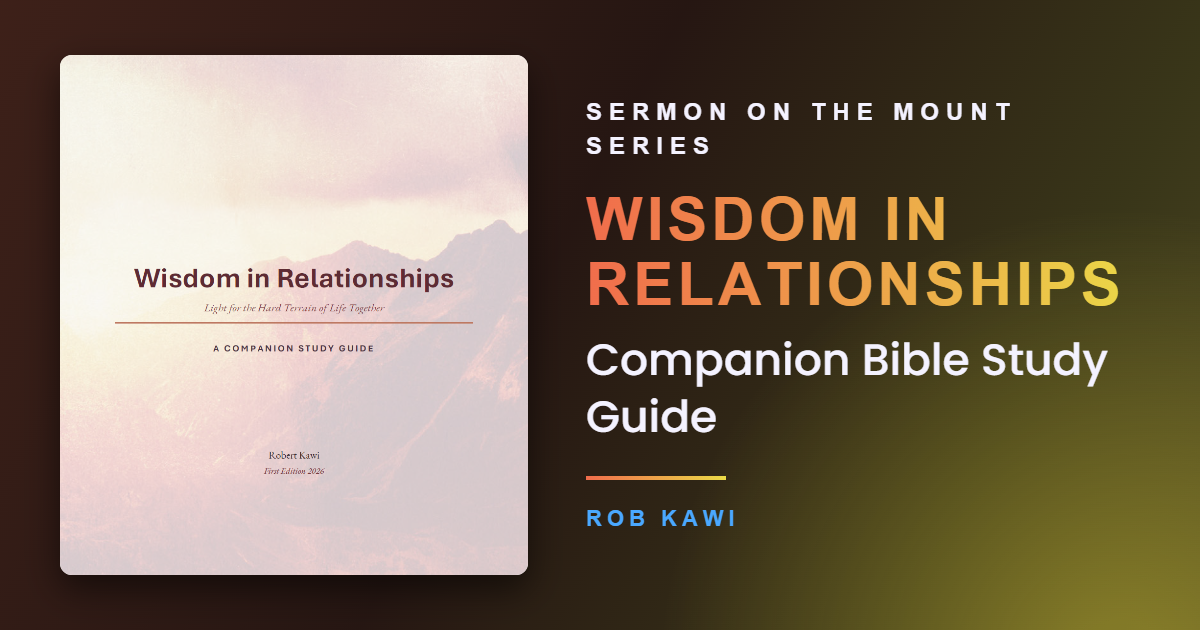
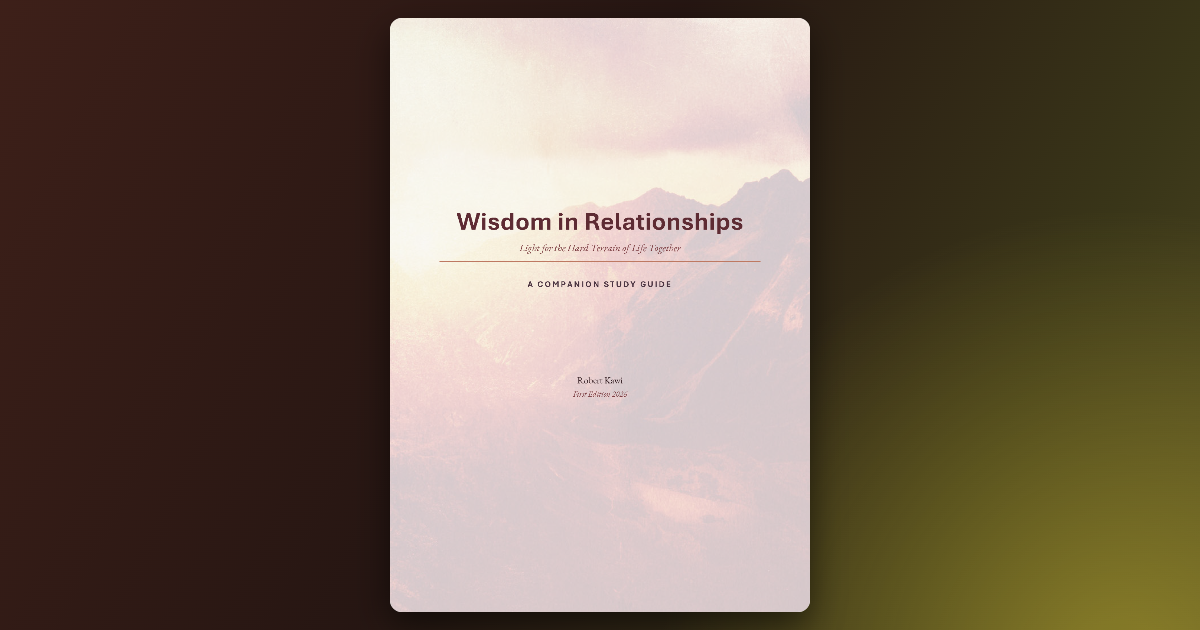
Add files via upload

diff --git a/wisdom-in-relationships-companion-study-guide.html b/wisdom-in-relationships-companion-study-guide.html
@@ -3,29 +3,29 @@
 <head>
 <meta name="viewport" content="width=device-width, initial-scale=1">
 <meta charset="utf-8">
-<title>wisdom in relationships companion study guide</title>
+<title>Wisdom in Relationships - A Companion Study Guide</title>
 <meta name="description" content="">
-<link rel="canonical" href="https://tdmp2026.github.io/wisdom-in-relationships-companion-study-guide.html">
+<link rel="canonical" href="https://tdmp2026.github.io/wisdom-in-relationships-a-companion-study-guide.html">
 <meta property="og:site_name" content="The Disciple-Maker Program">
-<meta property="og:title" content="wisdom in relationships companion study guide">
+<meta property="og:title" content="Wisdom in Relationships - A Companion Study Guide">
 <meta property="og:description" content="">
-<meta property="og:url" content="https://tdmp2026.github.io/wisdom-in-relationships-companion-study-guide.html">
+<meta property="og:url" content="https://tdmp2026.github.io/wisdom-in-relationships-a-companion-study-guide.html">
 <meta property="og:type" content="website">
-<meta property="og:image" content="https://tdmp2026.github.io/wisdom-in-relationships-companion-study-guide-card.png">
+<meta property="og:image" content="https://tdmp2026.github.io/wisdom-in-relationships-a-companion-study-guide-card.png">
 <meta property="og:image:width" content="1200">
 <meta property="og:image:height" content="630">
 <meta name="twitter:card" content="summary_large_image">
-<meta name="twitter:title" content="wisdom in relationships companion study guide">
+<meta name="twitter:title" content="Wisdom in Relationships - A Companion Study Guide">
 <meta name="twitter:description" content="">
-<meta name="twitter:image" content="https://tdmp2026.github.io/wisdom-in-relationships-companion-study-guide-card.png">
+<meta name="twitter:image" content="https://tdmp2026.github.io/wisdom-in-relationships-a-companion-study-guide-card.png">
 <style>body{margin:0;background:linear-gradient(160deg,#0e1d4d 0%,#1c1440 45%,#3a1a5e 80%,#4a1e63 100%);color:#f4f2ff;font-family:Arial,Helvetica,sans-serif;display:flex;min-height:100vh;align-items:center;justify-content:center;text-align:center}.box{width:min(94vw,1000px);padding:18px 8px}h1{font-weight:800;font-size:clamp(1.15rem,1.8vw,1.7rem);text-transform:uppercase;letter-spacing:.13em;color:#ffffff;margin:20px 0 0}p{color:#a9a3d0;font-size:clamp(.9rem,1.2vw,1.15rem);margin:10px 0 0}img.card,video.card{display:block;width:100%;height:auto;max-height:55vh;object-fit:contain;border-radius:12px}.btns{display:flex;flex-wrap:wrap;justify-content:center;gap:16px;max-width:900px;margin:18px auto 0}a.go,a.yt,a.sp,a.fb,a.dc{display:inline-flex;vertical-align:middle;align-items:center;justify-content:center;width:280px;height:52px;box-sizing:border-box;margin:0;padding:0;color:#fff;text-decoration:none;border-radius:8px;font-size:1rem;line-height:1;font-weight:700;letter-spacing:.1em;text-transform:uppercase}a.go{background:linear-gradient(90deg,#3b82f6,#8b5cf6)}a.yt{background:#e02f2f}a.sp{background:#1db954;color:#0a0a0a}a.fb{background:#1877f2}a.dc{background:linear-gradient(90deg,#f2c14e,#d99a1f);color:#1c1440}@media(max-width:700px){.box{width:100vw;padding:8px 5px}img.card,video.card{max-height:60vh}img.card.sq{aspect-ratio:1/1;max-height:70vh;object-fit:cover}h1{font-size:1.05rem;letter-spacing:.1em;margin:16px 0 0}p{font-size:.88rem}a.go,a.yt,a.sp,a.fb,a.dc{width:min(86vw,300px);height:46px;font-size:.82rem;letter-spacing:.07em;margin:0}.btns{gap:10px;margin-top:14px}}</style>
 </head>
 <body>
 <div class="box">
-<img class="card" src="wisdom-in-relationships-companion-study-guide-card.png" alt="wisdom in relationships companion study guide">
-<h1>wisdom in relationships companion study guide</h1>
+<img class="card sq" src="wisdom-in-relationships-a-companion-study-guide-card.png" alt="Wisdom in Relationships - A Companion Study Guide">
+<h1>Wisdom in Relationships - A Companion Study Guide</h1>
 <div class="btns">
-<a class="dc" href="https://drive.google.com/file/d/1w-NcJWnCtxEt_DB19Z7cRiuEvug-YZ6p/view?usp=sharing" target="_blank" rel="noopener" download><svg width="16" height="16" viewBox="0 0 24 24" fill="currentColor" style="vertical-align:-3px;margin-right:7px"><path d="M14 2H6a2 2 0 0 0-2 2v16a2 2 0 0 0 2 2h12a2 2 0 0 0 2-2V8l-6-6zm0 2.5L17.5 8H14V4.5zM12 19l-4-4h2.5v-3h3v3H16l-4 4z"/></svg>Get the Lesson</a>
+<a class="dc" href="https://drive.google.com/drive/folders/1res6owPjguccV1-NMW7TZjZ_3RV4EZYI?usp=sharing" target="_blank" rel="noopener" download><svg width="16" height="16" viewBox="0 0 24 24" fill="currentColor" style="vertical-align:-3px;margin-right:7px"><path d="M14 2H6a2 2 0 0 0-2 2v16a2 2 0 0 0 2 2h12a2 2 0 0 0 2-2V8l-6-6zm0 2.5L17.5 8H14V4.5zM12 19l-4-4h2.5v-3h3v3H16l-4 4z"/></svg>Get the Lesson</a>
 </div>
 </div>
 </body>
